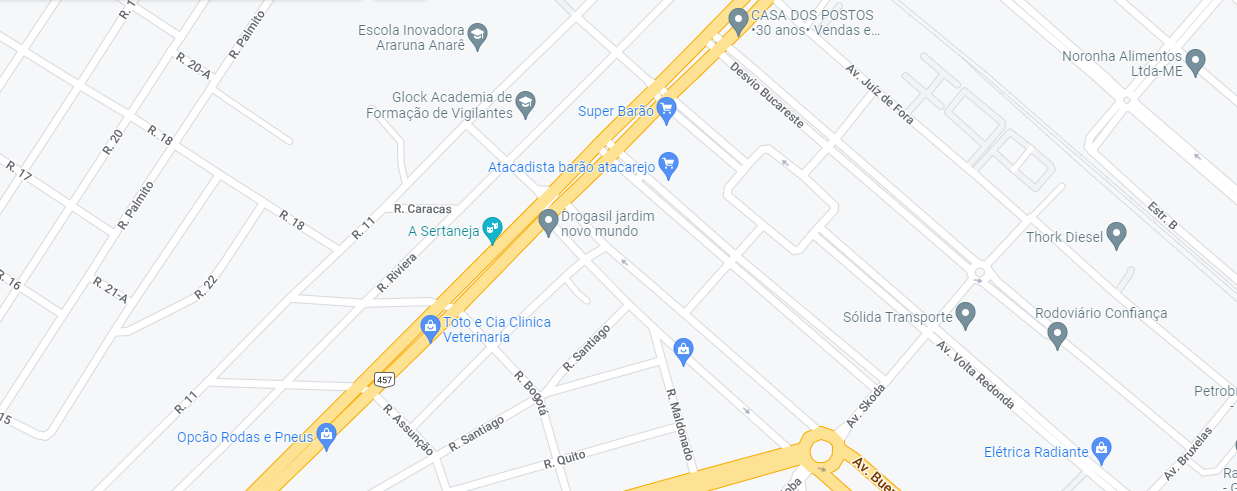
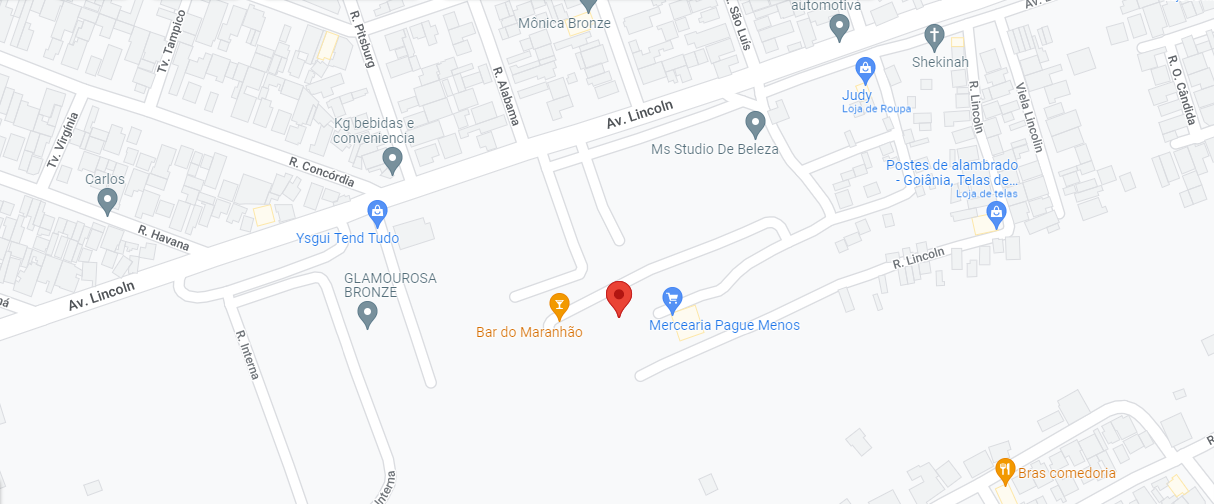
ajustes no map

diff --git a/index.html b/index.html
@@ -298,7 +298,7 @@
         </section>
 
         <section class="map">
-            <a href="https://www.google.com.br/maps/place/Drogaria+Santa+Marta/@-16.6652768,-49.2164653,18z/data=!3m1!4b1!4m5!3m4!1s0x935ef191d2885f4b:0xc795a2292b15df05!8m2!3d-16.6652443!4d-49.2155813" target="_blank">
+            <a href="https://www.google.com/maps/place/Mercearia+Pague+Menos/@-16.6798349,-49.2209454,17z/data=!4m13!1m7!3m6!1s0x935ef1eb8aecb527:0x8f3e9c12a8dd750!2sAv.+Lincoln+Q+Area,+295+-+Jardim+Novo+Mundo,+Goi%C3%A2nia+-+GO,+74710-260!3b1!8m2!3d-16.679838!4d-49.219644!3m4!1s0x935ef17fb9012589:0x1849e1f04a2135f8!8m2!3d-16.6808054!4d-49.2193967?hl=pt-BR" target="_blank">
                 <div class="area_map"></div>
             </a>
         </section>
@@ -328,7 +328,7 @@
                                 <img src="/assets/img/carta.png" alt="email">
                             </div>
                             <div class="cont">
-                                <a href="mailto:josegalvão@gmail.com" target="_blank">josegalvão@gmail.com</a>
+                                <a href="mailto:merceariagalvao2022@gmail.com" target="_blank">merceariagalvao2022@gmail.com</a>
                             </div>
                         </div>
                     </div>
@@ -342,10 +342,10 @@
                         Você pode nos encontrar acessando o link abaixo ou clicando no nosso mada definido acima.
                     </div>
                     <div class="desc_endereco">
-                        <div class="rua"><a href="#" target="_blank">R. Bogotá, 000</a></div>
-                        <div class="bairro"><a href="#" target="_blank">Jardim Novo Mundo</a></div>
-                        <div class="cidade"><a href="#" target="_blank">Goiânia - GO</a></div>
-                        <div class="cep"><a href="#" target="_blank">00.000-000</a></div>
+                        <div class="rua"><a href="#">Av. Lincoln Q Area, 295</a></div>
+                        <div class="bairro"><a href="#">Jardim Novo Mundo</a></div>
+                        <div class="cidade"><a href="#">Goiânia - GO</a></div>
+                        <div class="cep"><a href="#">74710-260</a></div>
                     </div>
                 </address>
                 <div class="atendimento">
